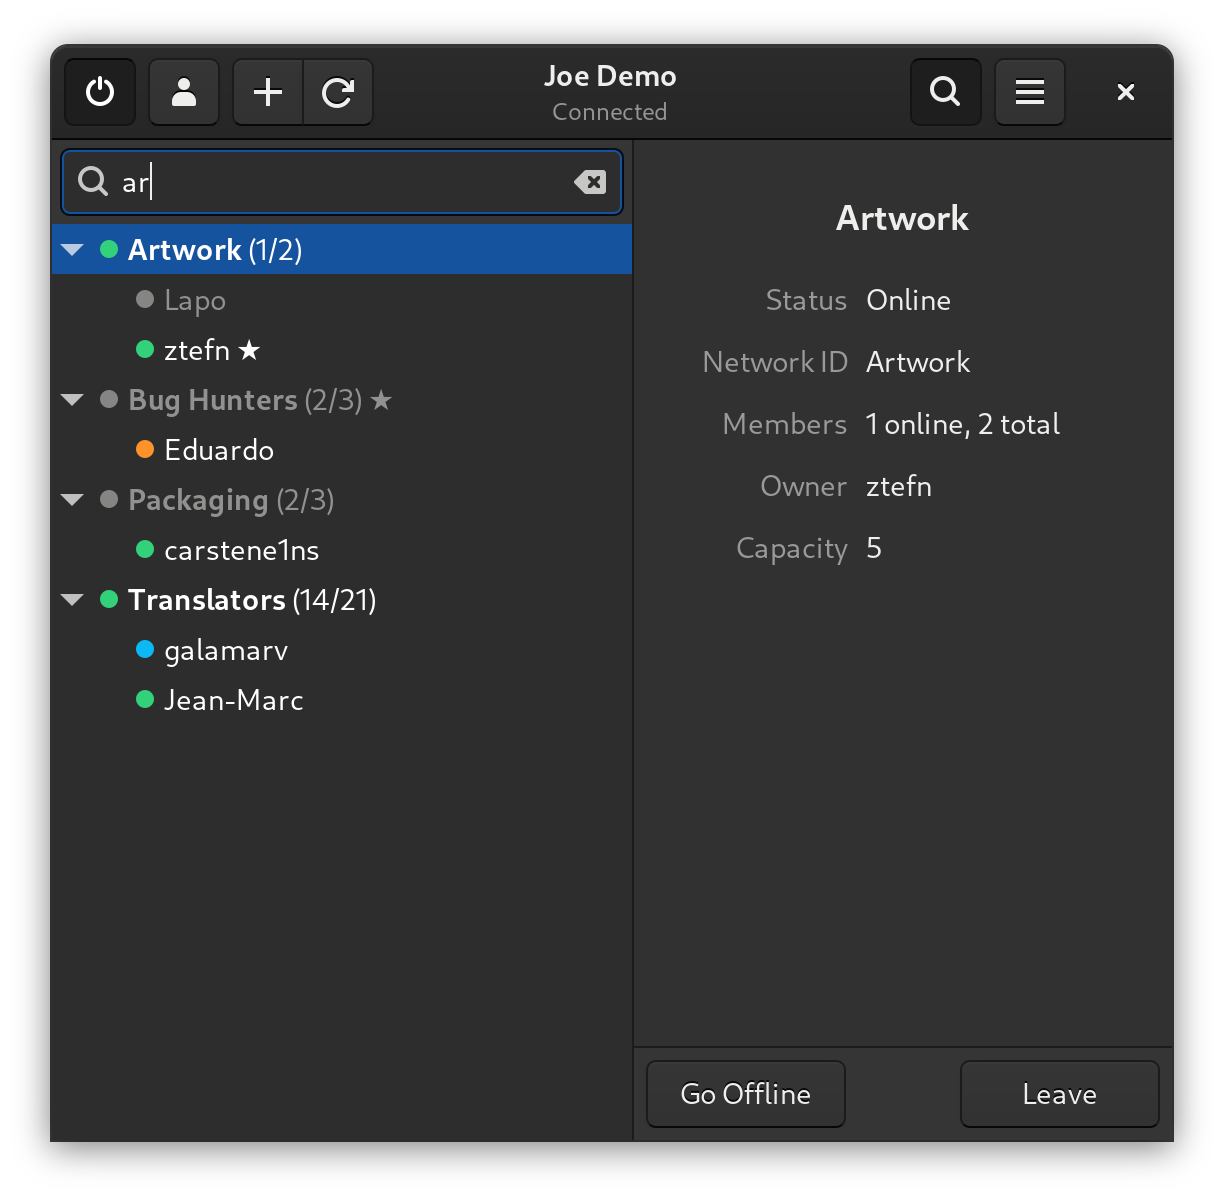
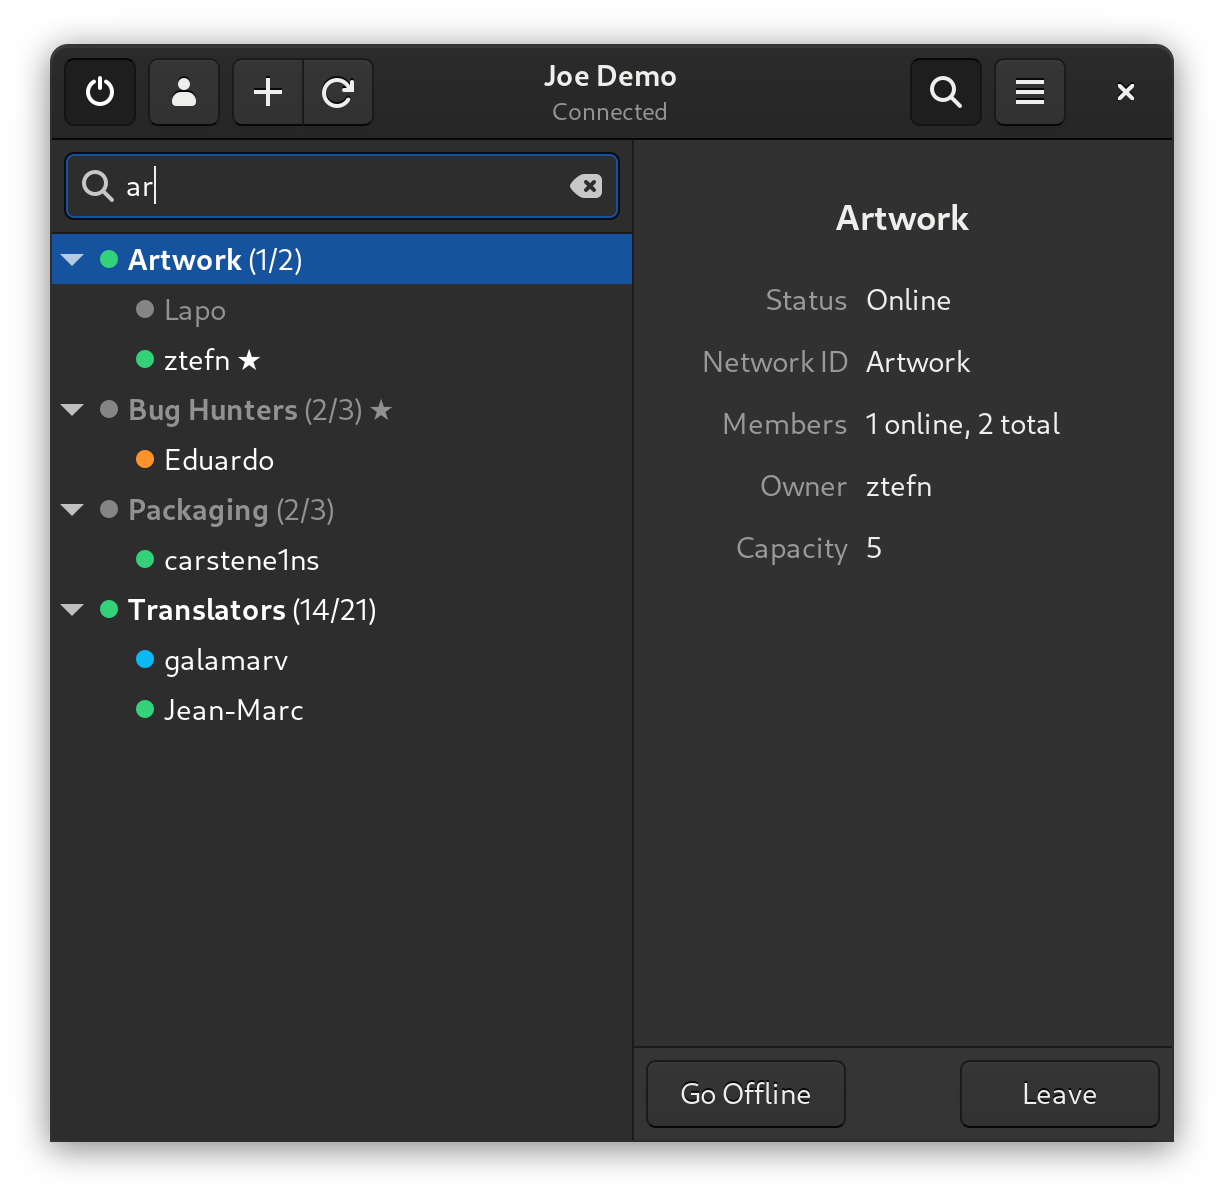
Add release 1.4.6

Changed region(s): [[0.031, 0.1235, 0.5278, 0.6177]]

diff --git a/_posts/2023-04-30-release146.md b/_posts/2023-04-30-release146.md
@@ -1,0 +1,24 @@
+---
+title: Haguichi 1.4.6 Released
+date: 2023-04-30T20:00:00+0200
+author: ztefn
+layout: post
+permalink: /news/release146/
+tags: ['14', commands, keyboard-shortcut, release, translation]
+---
+Haguichi 1.4.6 was hatched breaking the following news:
+
+* Implemented separate thread and mode for configuring.
+* Improved display of long text input in commands editor.
+* Now using actual <a href="https://docs.gtk.org/gtk3/class.SearchBar.html" target="_blank">Gtk.SearchBar</a> widget for search bar.
+* Now using pill style action buttons in message box.
+* Added support for kgx (<a href="https://apps.gnome.org/app/org.gnome.Console/" target="_blank">GNOME Console</a>).
+* Dropped support for pantheon-terminal and pantheon-files.
+* Removed stylesheet for Mint themes.
+* Removed <kbd>Control</kbd>+<kbd>F1</kbd> as accelerator to open keyboard shortcuts window.
+* Updated Brazilian Portuguese, French, Indonesian, Italian, Japanese, Lithuanian, Polish, Portuguese, Russian, Spanish, Swedish and Ukrainian translations.
+
+<div class="caption center-text">
+  <img src="/resources/main-window-not-installed.png" srcset="/resources/main-window-not-installed-2x.png 2x" alt="Not Installed Message" />
+  <p class="caption-text">Pill style action button in message box.</p>
+</div>

diff --git a/_sections/haguichi.md b/_sections/haguichi.md
@@ -7,7 +7,7 @@ order: 1
 <p>Haguichi is free and open source software licensed under <a href="https://www.gnu.org/licenses/gpl-3.0.html" target="_blank">GPLv3</a>. Written in <a href="https://vala.dev" target="_blank">Vala</a> and using <a href="http://www.gtk.org/" target="_blank">GTK</a> as widget toolkit, Haguichi provides a user friendly <abbr title="Graphical user interface">GUI</abbr> to control the <a href="https://vpn.net" target="_blank">Hamachi</a> client on Linux.</p>
 <div class="row">
   <div class="col"><a class="button" href="/download/">Download now</a></div>
-  <div class="col"><a href="/news/release145/">Version 1.4.5 release notes</a></div>
+  <div class="col"><a href="/news/release146/">Version 1.4.6 release notes</a></div>
 </div>
 <div>
   <img src="/resources/teaser.png" srcset="/resources/teaser-2x.png 2x" alt="Main Window" class="aligncenter" width="614" height="200" />

diff --git a/_downloads/source-tarball.md b/_downloads/source-tarball.md
@@ -2,4 +2,4 @@
 title: Source Tarball
 order: 9
 ---
-To build Haguichi from source download the <a href="https://launchpad.net/haguichi/1.4/1.4.5/+download/haguichi-1.4.5.tar.xz" target="_blank">source tarball</a> and extract it. Open the text file named <b>INSTALL.md</b> and follow the instructions within.
+To build Haguichi from source download the <a href="https://launchpad.net/haguichi/1.4/1.4.6/+download/haguichi-1.4.6.tar.xz" target="_blank">source tarball</a> and extract it. Open the text file named <b>INSTALL.md</b> and follow the instructions within.
